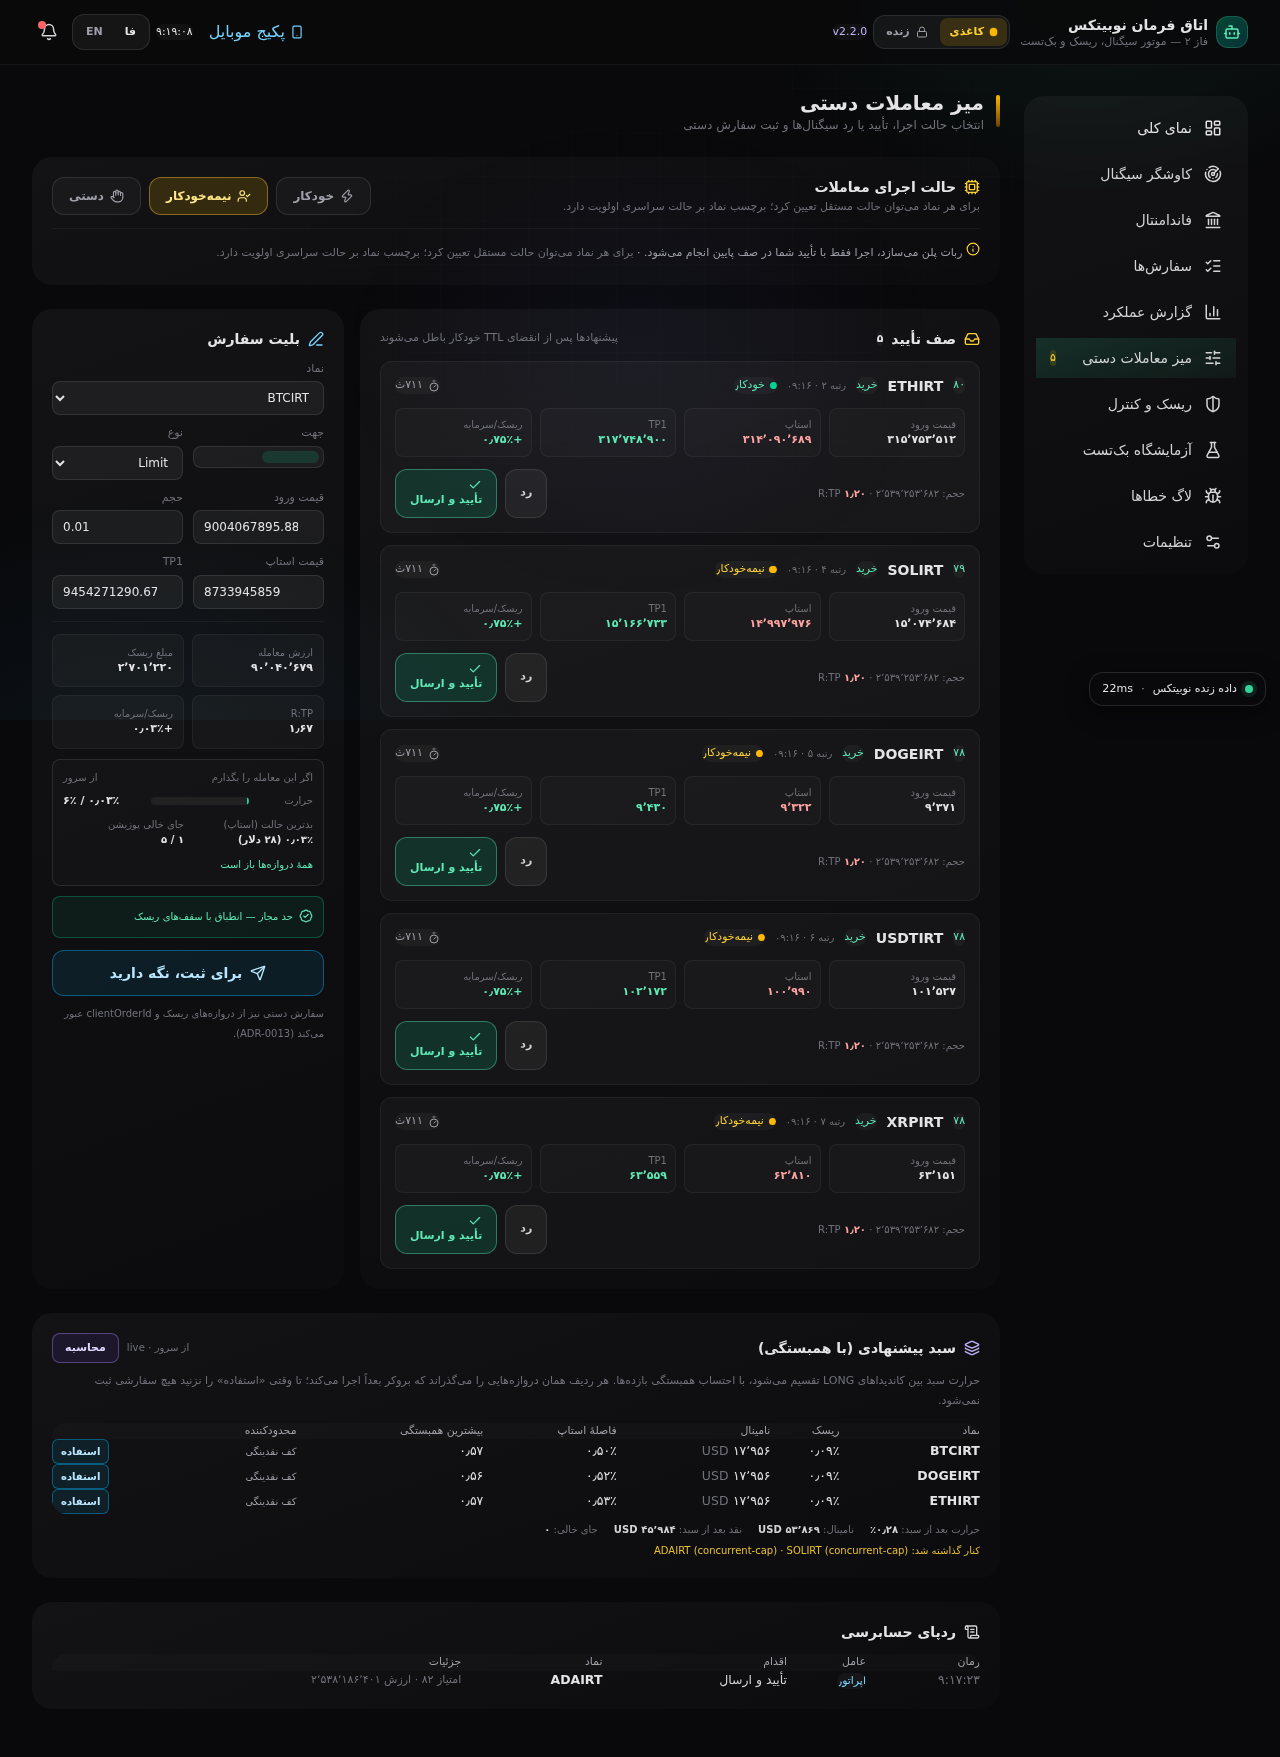
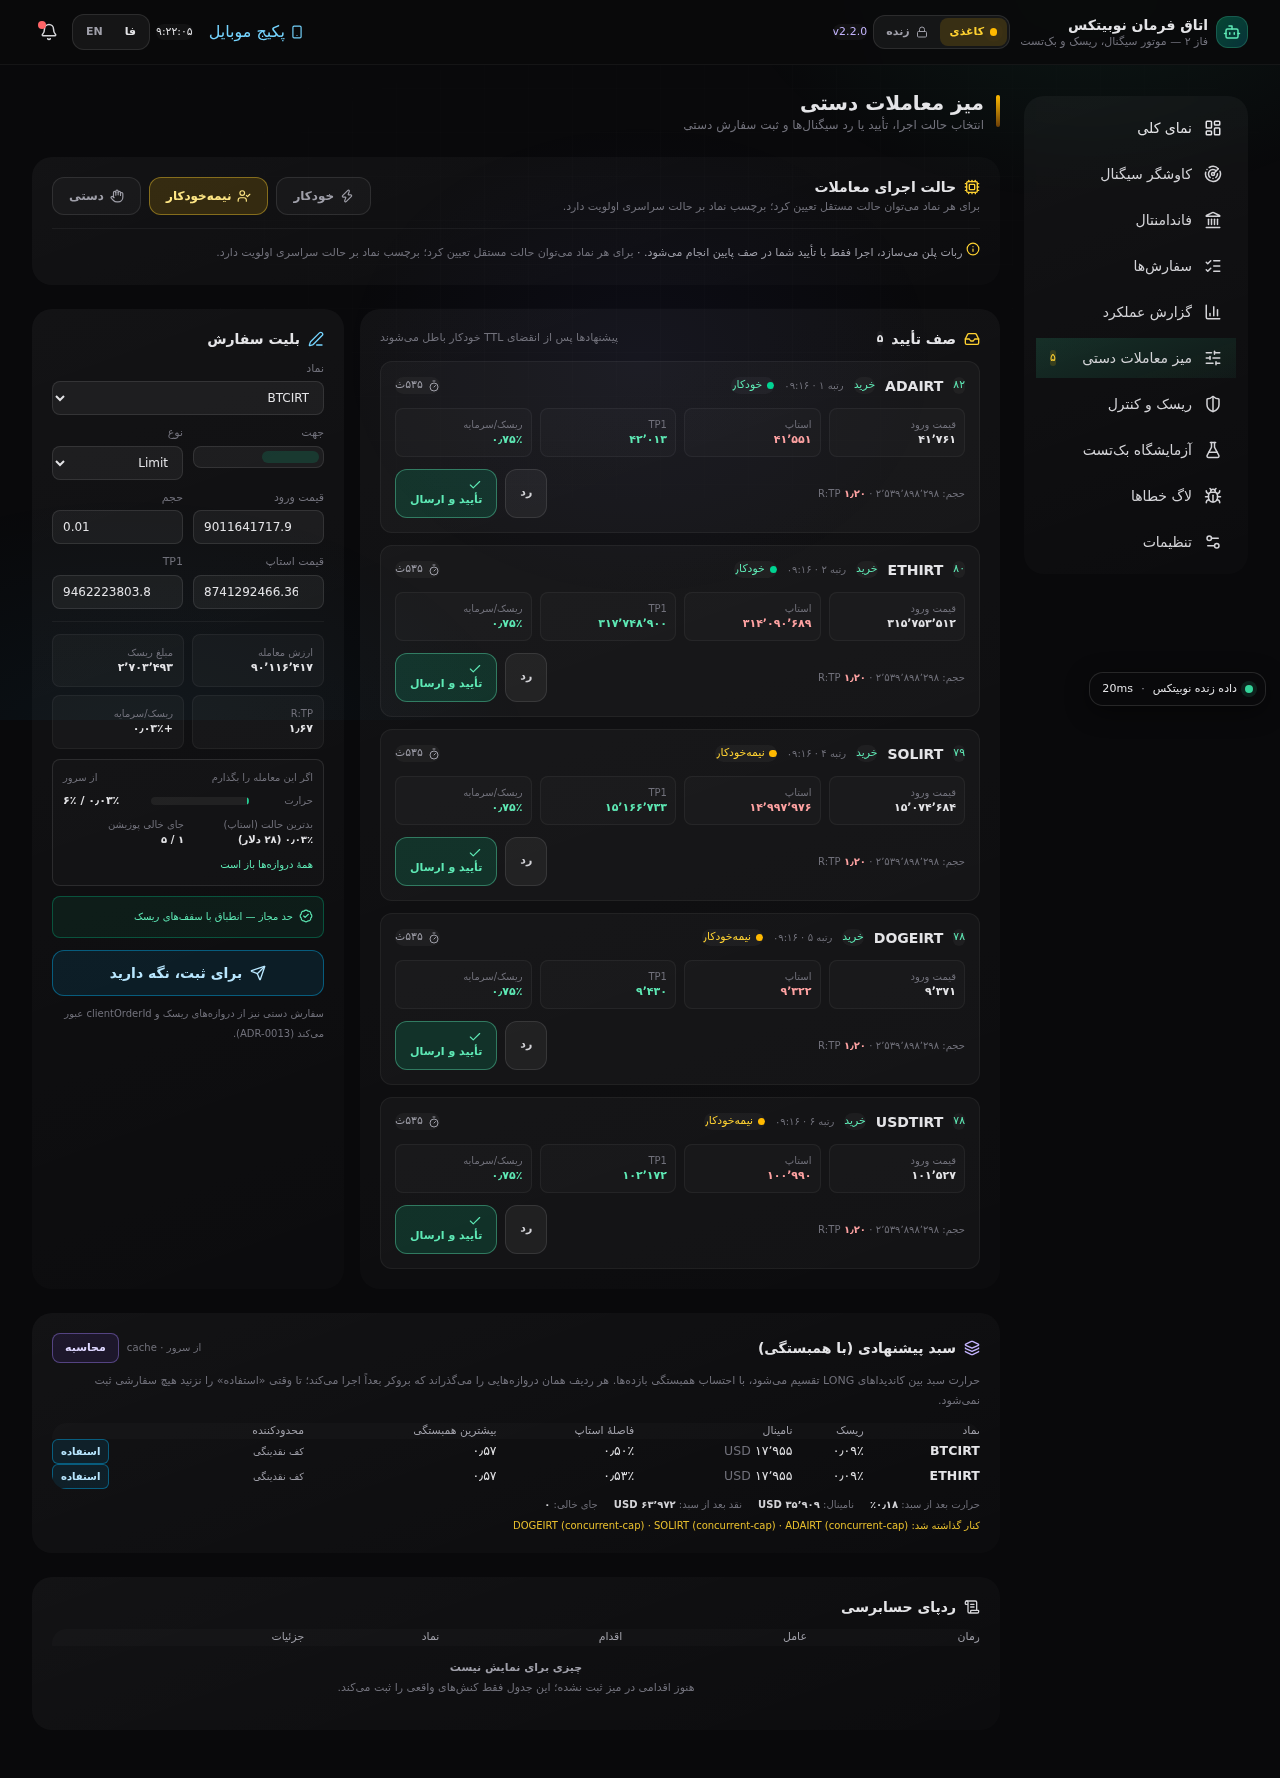
fix(desk): ریسک، درصدِ حجم است نه تغییر — بیعلامت چاپ شود
«ریسک/سرمایه +۰٫۷۵٪» با علامت مثبت، درصد ریسک را شبیه سود نشان میداد.
PC(...) با آرگومان سومِ false در کارت صف و در جملهٔ لاگ حسابرسی.

diff --git a/index.html b/index.html
@@ -4157,7 +4157,7 @@ function renderQueue(){
         <div class="rounded-lg bg-white/[.02] border border-white/5 p-2"><div class="text-zinc-500 text-[10px]">${t('dk.price')}</div><div class="num font-bold">${fmtNum(q.entry, q.entry<1000?2:0)}</div></div>
         <div class="rounded-lg bg-white/[.02] border border-white/5 p-2"><div class="text-zinc-500 text-[10px]">${t('col.stop')}</div><div class="num font-bold text-red-300">${fmtNum(q.stop, q.stop<1000?2:0)}</div></div>
         <div class="rounded-lg bg-white/[.02] border border-white/5 p-2"><div class="text-zinc-500 text-[10px]">${t('col.tp1')}</div><div class="num font-bold text-emerald-300">${fmtNum(q.tp1, q.tp1<1000?2:0)}</div></div>
-        <div class="rounded-lg bg-white/[.02] border border-white/5 p-2"><div class="text-zinc-500 text-[10px]">${t('dk.riskPct')}</div><div class="num font-bold ${q.risk>0.75?'text-red-300':'text-emerald-300'}">${PC(q.risk,2)}</div></div>
+        <div class="rounded-lg bg-white/[.02] border border-white/5 p-2"><div class="text-zinc-500 text-[10px]">${t('dk.riskPct')}</div><div class="num font-bold ${q.risk>0.75?'text-red-300':'text-emerald-300'}">${PC(q.risk,2,false)}</div></div>
       </div>
       <div class="flex flex-wrap items-center gap-2">
         <span class="text-[10px] text-zinc-500 num">${t('dk.amount')}: ${fmtNum(q.sizeQ)} · R:TP <span class="text-${col}-300 font-bold">${fmtNum(rr,2)}</span></span>
@@ -4184,7 +4184,7 @@ function resolveQ(id, approve){
     queue = queue.filter(x=>x.id!==id);
     audit.unshift({ t:new Date().toLocaleTimeString('fa-IR'), a:'human',
       act:{fa:'رد سیگنال',en:'Signal rejected'}, sym:q.sym,
-      d:{fa:`امتیاز ${fmtNum(q.score)} · ریسک ${PC(q.risk,2)}`,en:`score ${fmtNum(q.score)} · risk ${PC(q.risk,2)}`} });
+      d:{fa:`امتیاز ${fmtNum(q.score)} · ریسک ${PC(q.risk,2,false)}`,en:`score ${fmtNum(q.score)} · risk ${PC(q.risk,2,false)}`} });
     renderQueue(); renderAudit();
     toast(t('dk.tRejected'), t('dk.tRejectedM'), 'warn');
     return;

diff --git a/nobitex-mobile.html b/nobitex-mobile.html
@@ -4556,7 +4556,7 @@ function renderQueue(){
         <div class="rounded-lg bg-white/[.02] border border-white/5 p-2"><div class="text-zinc-500 text-[10px]">${t('dk.price')}</div><div class="num font-bold">${fmtNum(q.entry, q.entry<1000?2:0)}</div></div>
         <div class="rounded-lg bg-white/[.02] border border-white/5 p-2"><div class="text-zinc-500 text-[10px]">${t('col.stop')}</div><div class="num font-bold text-red-300">${fmtNum(q.stop, q.stop<1000?2:0)}</div></div>
         <div class="rounded-lg bg-white/[.02] border border-white/5 p-2"><div class="text-zinc-500 text-[10px]">${t('col.tp1')}</div><div class="num font-bold text-emerald-300">${fmtNum(q.tp1, q.tp1<1000?2:0)}</div></div>
-        <div class="rounded-lg bg-white/[.02] border border-white/5 p-2"><div class="text-zinc-500 text-[10px]">${t('dk.riskPct')}</div><div class="num font-bold ${q.risk>0.75?'text-red-300':'text-emerald-300'}">${PC(q.risk,2)}</div></div>
+        <div class="rounded-lg bg-white/[.02] border border-white/5 p-2"><div class="text-zinc-500 text-[10px]">${t('dk.riskPct')}</div><div class="num font-bold ${q.risk>0.75?'text-red-300':'text-emerald-300'}">${PC(q.risk,2,false)}</div></div>
       </div>
       <div class="flex flex-wrap items-center gap-2">
         <span class="text-[10px] text-zinc-500 num">${t('dk.amount')}: ${fmtNum(q.sizeQ)} · R:TP <span class="text-${col}-300 font-bold">${fmtNum(rr,2)}</span></span>
@@ -4583,7 +4583,7 @@ function resolveQ(id, approve){
     queue = queue.filter(x=>x.id!==id);
     audit.unshift({ t:new Date().toLocaleTimeString('fa-IR'), a:'human',
       act:{fa:'رد سیگنال',en:'Signal rejected'}, sym:q.sym,
-      d:{fa:`امتیاز ${fmtNum(q.score)} · ریسک ${PC(q.risk,2)}`,en:`score ${fmtNum(q.score)} · risk ${PC(q.risk,2)}`} });
+      d:{fa:`امتیاز ${fmtNum(q.score)} · ریسک ${PC(q.risk,2,false)}`,en:`score ${fmtNum(q.score)} · risk ${PC(q.risk,2,false)}`} });
     renderQueue(); renderAudit();
     toast(t('dk.tRejected'), t('dk.tRejectedM'), 'warn');
     return;
